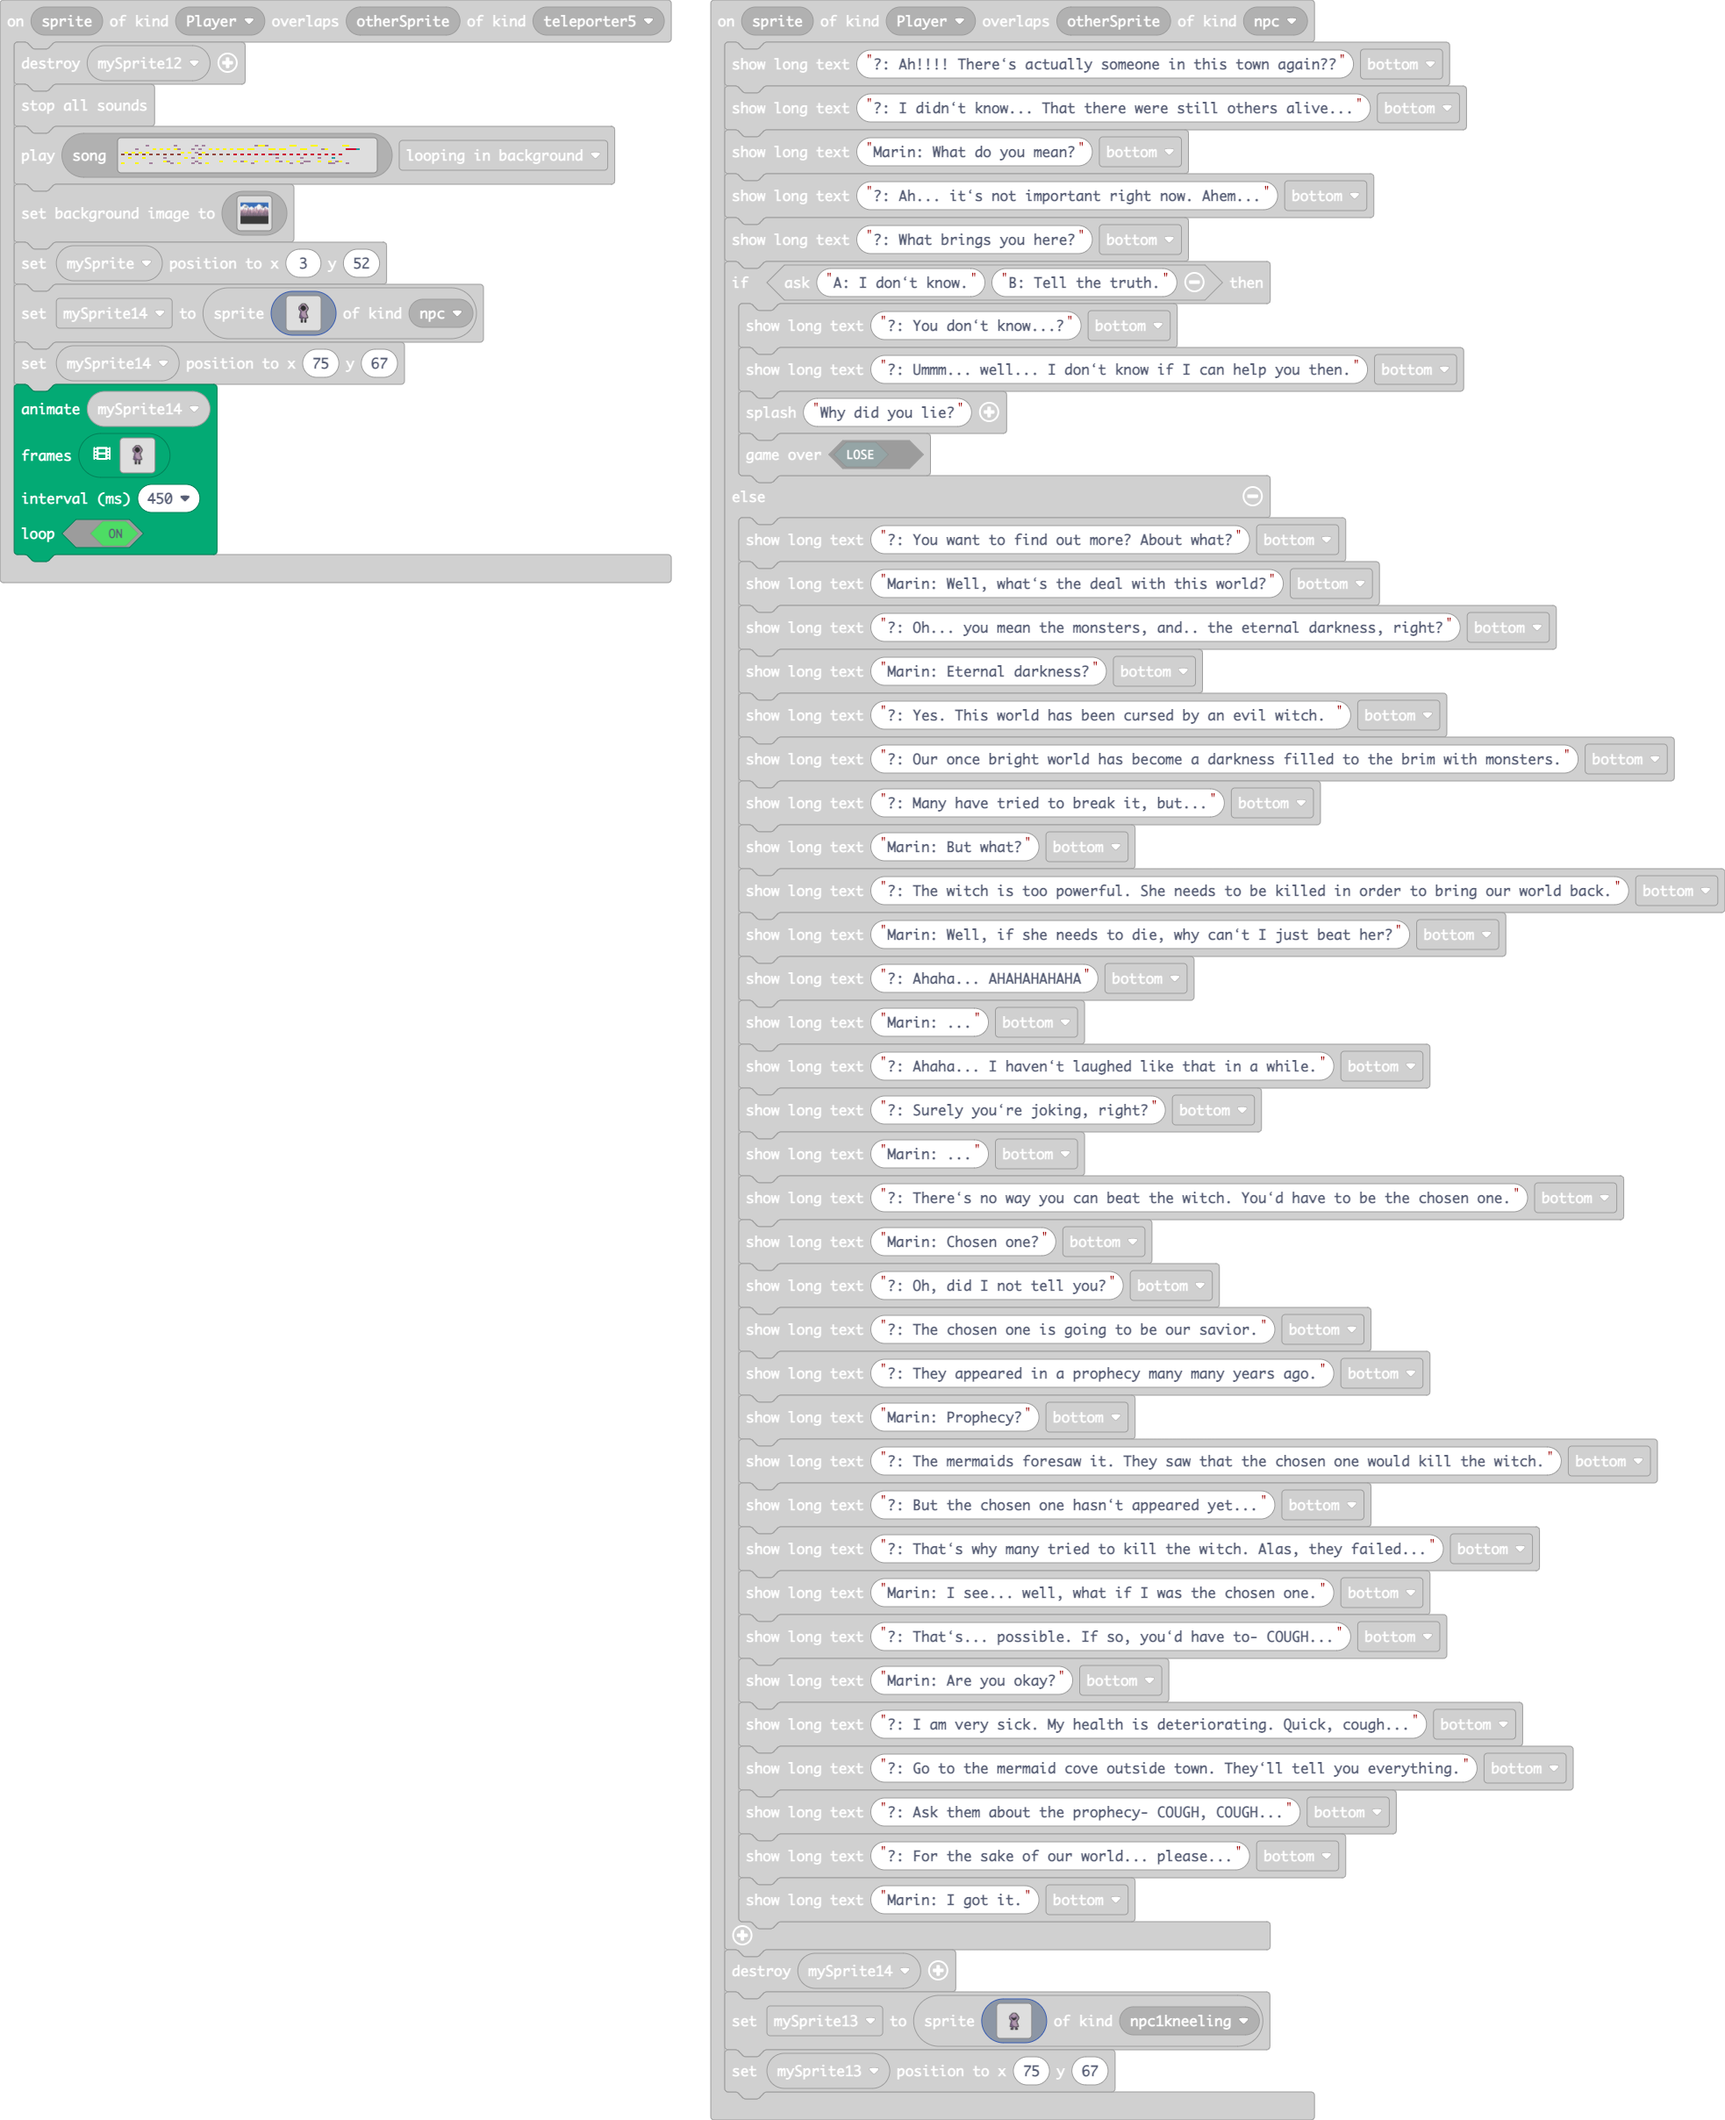
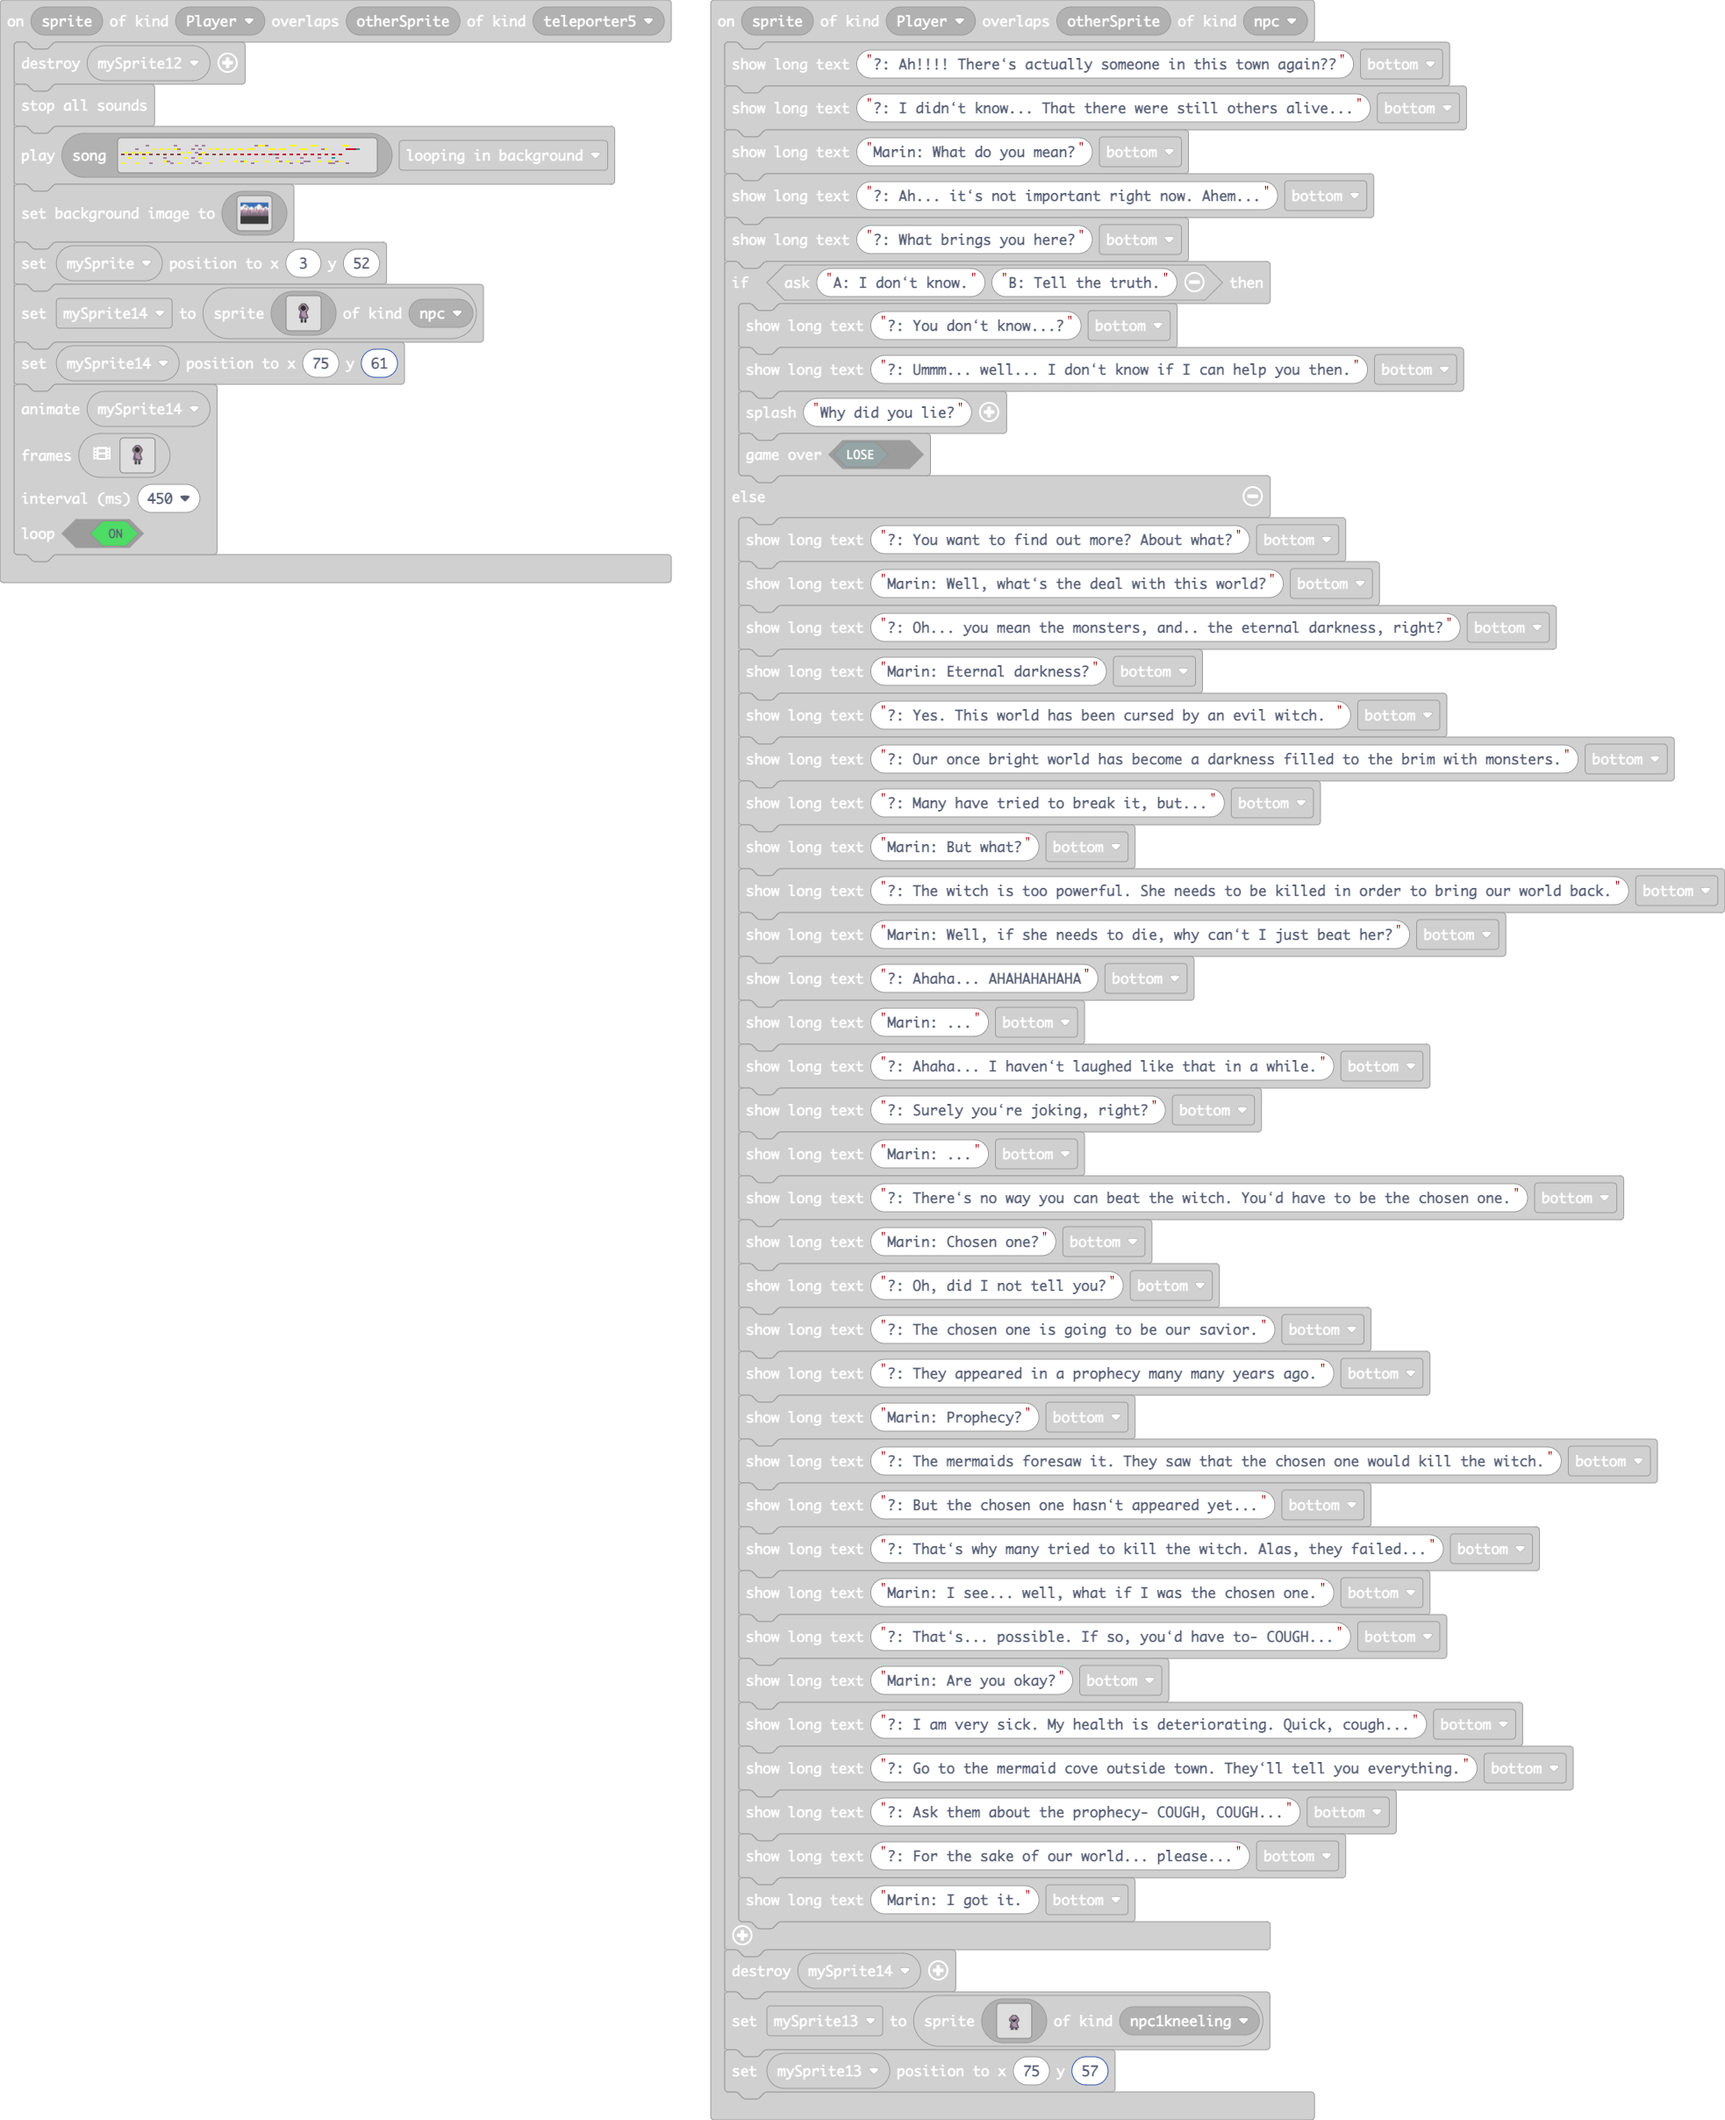
:3

Changed region(s): [[0.0, 0.1552, 0.1241, 0.2794], [0.5585, 0.9313, 0.6205, 0.9623], [0.1551, 0.1242, 0.2172, 0.1552]]

diff --git a/images.g.ts b/images.g.ts
@@ -1019,6 +1019,11 @@ f f f c 3 c c c c 3 c f f f
 ................................................................
 ................................................................
 ................................................................
+................................................................
+................................................................
+................................................................
+................................................................
+................................................................
 ............................ffffffff............................
 ...........................ffbbbbbbff...........................
 ..........................ffbbbbbbbbff..........................
@@ -1028,7 +1033,6 @@ f f f c 3 c c c c 3 c f f f
 ......................fccbbbbbbbbbbbbbbff.......................
 .....................fccbbbbbbbbbbbbccbbff......................
 .....................fcbbcccbbbbbbbcccbbbf......................
-.....................fcbbccccbbbbbccccbbbff.....................
 .....................fcbbcccccccbcccfccbbbf.....................
 .....................fcbbfffccccccffffbbbbf.....................
 .....................fccbbffffffffffffbbbbf.....................
@@ -1037,7 +1041,6 @@ f f f c 3 c c c c 3 c f f f
 .......................fccbbbffffffbbbbbf.......................
 ........................fccbbbfffbbbbbbf........................
 .........................fcccbbbbbbbbbff........................
-.........................fcccbbbbbbbccf.........................
 .........................fccbbbbbbbcccf.........................
 ........................ffccbbbbbbbbbbf.........................
 ........................fcccbbbbbbbbbbf.........................
@@ -1047,15 +1050,12 @@ f f f c 3 c c c c 3 c f f f
 .......................fccccbbbbbbbbbbbff.......................
 .......................fcccccbbbbbbbbbbbf.......................
 .......................fcccccbbbbbbbbbbbf.......................
-.......................fccccccbbbbbbbbbbbf......................
 ......................fcccccccccbbbbbbbbbf......................
 ......................fcccccccccbbbbbbbbff......................
 .......................ffffcccfffffccfffff......................
 ..........................fccf....fccf..........................
 ..........................fccf....fccf..........................
-..........................fccf....fccf..........................
-........................fffccf....fccfff........................
-........................fffccf....fccfff........................
+.........................ffcff....ffcff.........................
 ........................ffffff....ffffff........................
 ................................................................
 ................................................................

diff --git a/main.ts b/main.ts
@@ -59,7 +59,7 @@ sprites.onOverlap(SpriteKind.Player, SpriteKind.npc, function (sprite, otherSpri
     }
     sprites.destroy(mySprite14)
     mySprite13 = sprites.create(assets.image`npc_1_hurt`, SpriteKind.npc1kneeling)
-    mySprite13.setPosition(75, 67)
+    mySprite13.setPosition(75, 57)
 })
 controller.B.onEvent(ControllerButtonEvent.Pressed, function () {
     projectile = sprites.createProjectileFromSprite(img`
@@ -326,7 +326,7 @@ sprites.onOverlap(SpriteKind.Player, SpriteKind.teleporter5, function (sprite, o
         `)
     mySprite.setPosition(3, 52)
     mySprite14 = sprites.create(assets.image`npc_1`, SpriteKind.npc)
-    mySprite14.setPosition(75, 67)
+    mySprite14.setPosition(75, 61)
     animation.runImageAnimation(
     mySprite14,
     assets.animation`npc_1_anim`,
